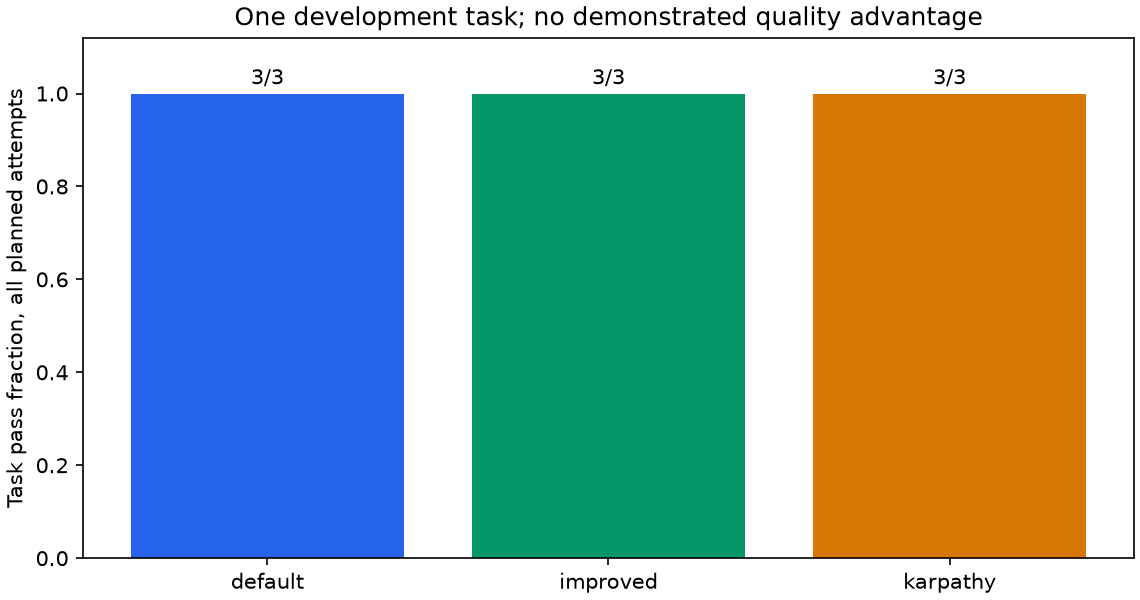
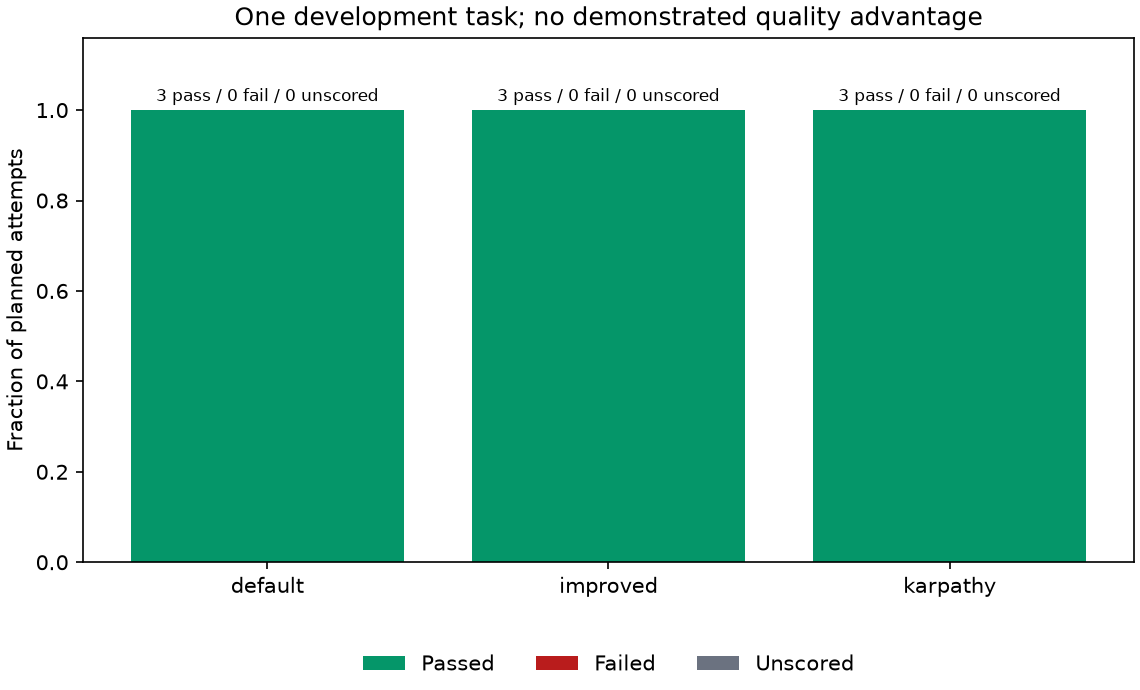
Distinguish unscored trials and verify published charts

diff --git a/tools/summarize_agent_trials.py b/tools/summarize_agent_trials.py
@@ -7,6 +7,7 @@ import argparse
 import hashlib
 import json
 import statistics
+import tempfile
 import zipfile
 from collections import Counter
 from pathlib import Path, PurePosixPath
@@ -454,17 +455,36 @@ def plots(report: dict[str, Any], output: Path) -> None:
     plt.rcParams.update({"svg.hashsalt": report["protocol_sha256"], "svg.fonttype": "none", "font.size": 10})
     conditions = sorted(report["conditions"])
     colors = ["#2563eb", "#059669", "#d97706"]
-    figure, axis = plt.subplots(figsize=(7.6, 4.0), layout="constrained")
+    figure, axis = plt.subplots(figsize=(7.6, 4.6), layout="constrained")
     values = [report["conditions"][condition] for condition in conditions]
-    rates = [value["task_passes"] / value["planned_attempts"] for value in values]
-    axis.bar(conditions, rates, color=colors[: len(conditions)])
-    for index, value in enumerate(values):
-        axis.text(index, rates[index] + 0.02, f"{value['task_passes']}/{value['planned_attempts']}", ha="center")
+    passed = [value["status_counts"].get("task_passed", 0) for value in values]
+    failed = [value["status_counts"].get("task_failed", 0) for value in values]
+    unscored = [
+        sum(count for status, count in value["status_counts"].items() if status not in {"task_passed", "task_failed"})
+        for value in values
+    ]
+    planned = [value["planned_attempts"] for value in values]
+    passed_fraction = [count / total for count, total in zip(passed, planned, strict=True)]
+    failed_fraction = [count / total for count, total in zip(failed, planned, strict=True)]
+    unscored_fraction = [count / total for count, total in zip(unscored, planned, strict=True)]
+    axis.bar(conditions, passed_fraction, label="Passed", color="#059669")
+    axis.bar(conditions, failed_fraction, bottom=passed_fraction, label="Failed", color="#b91c1c")
+    bottom = [left + right for left, right in zip(passed_fraction, failed_fraction, strict=True)]
+    axis.bar(conditions, unscored_fraction, bottom=bottom, label="Unscored", color="#6b7280")
+    for index, (passed_count, failed_count, unscored_count) in enumerate(zip(passed, failed, unscored, strict=True)):
+        axis.text(
+            index,
+            1.02,
+            f"{passed_count} pass / {failed_count} fail / {unscored_count} unscored",
+            ha="center",
+            fontsize=8,
+        )
     axis.set(
-        ylim=(0, 1.12),
-        ylabel="Task pass fraction, all planned attempts",
+        ylim=(0, 1.16),
+        ylabel="Fraction of planned attempts",
         title="One development task; no demonstrated quality advantage",
     )
+    axis.legend(loc="upper center", bbox_to_anchor=(0.5, -0.14), ncol=3, frameon=False)
     figure.savefig(output / "quality.svg", metadata={"Date": None, "Creator": "summarize_agent_trials.py"})
     figure.savefig(output / "quality.png", dpi=150, metadata={"Software": "summarize_agent_trials.py"})
     plt.close(figure)
@@ -492,6 +512,27 @@ def plots(report: dict[str, Any], output: Path) -> None:
     plt.close(figure)
 
 
+def verify_plots(report: dict[str, Any], output: Path) -> None:
+    """Compare rendered SVG content and PNG pixels without changing published files."""
+    from PIL import Image
+
+    with tempfile.TemporaryDirectory() as directory:
+        rendered = Path(directory)
+        plots(report, rendered)
+        for name in ("quality.svg", "tokens.svg"):
+            expected_svg = (rendered / name).read_bytes().replace(b"\r\n", b"\n")
+            actual_svg = (output / name).read_bytes().replace(b"\r\n", b"\n")
+            if actual_svg != expected_svg:
+                raise ValueError(f"published {name} differs from the verified trial report")
+        for name in ("quality.png", "tokens.png"):
+            with Image.open(rendered / name) as expected_image, Image.open(output / name) as actual_image:
+                if (
+                    expected_image.size != actual_image.size
+                    or expected_image.convert("RGBA").tobytes() != actual_image.convert("RGBA").tobytes()
+                ):
+                    raise ValueError(f"published {name} pixels differ from the verified trial report")
+
+
 def build_parser() -> argparse.ArgumentParser:
     parser = argparse.ArgumentParser(description=__doc__)
     parser.add_argument("--protocol", type=Path, required=True)
@@ -502,6 +543,9 @@ def build_parser() -> argparse.ArgumentParser:
     )
     parser.add_argument(
         "--plots", action="store_true", help="Generate standalone SVG charts; requires the reports extra"
+    )
+    parser.add_argument(
+        "--check-plots", action="store_true", help="With --check, verify published charts; requires the reports extra"
     )
     parser.add_argument("--json", action="store_true")
     parser.add_argument(
@@ -517,12 +561,16 @@ def main(argv: list[str] | None = None) -> int:
     try:
         if args.check and (args.plots or args.package_bytecode):
             raise ValueError("--check does not write charts or bytecode transports")
+        if args.check_plots and not args.check:
+            raise ValueError("--check-plots requires --check")
         report = summarize(args.protocol, args.trials, package_caches=args.package_bytecode)
         if args.check:
             if (args.output_dir / "summary.json").read_text(encoding="utf-8") != dumps_deterministic(report) or (
                 args.output_dir / "README.md"
             ).read_text(encoding="utf-8") != render(report):
                 raise ValueError("published trial report differs from verified recorded attempts")
+            if args.check_plots:
+                verify_plots(report, args.output_dir)
         else:
             args.output_dir.mkdir(parents=True, exist_ok=True)
             write_json(args.output_dir / "summary.json", report)

diff --git a/tests/test_render_agent_quality_chart.py b/tests/test_render_agent_quality_chart.py
@@ -1,0 +1,74 @@
+"""Keep unscored attempts distinct from failures in the single-task chart."""
+
+from __future__ import annotations
+
+import importlib.util
+import tempfile
+import unittest
+import xml.etree.ElementTree as ET
+from pathlib import Path
+from typing import Any
+
+import summarize_agent_trials as target
+
+
+@unittest.skipUnless(importlib.util.find_spec("matplotlib"), "the optional reports dependencies are not installed")
+class AgentQualityChartTests(unittest.TestCase):
+    @staticmethod
+    def report() -> dict[str, Any]:
+        return {
+            "protocol_sha256": "a" * 64,
+            "conditions": {
+                "default": {
+                    "planned_attempts": 4,
+                    "task_passes": 1,
+                    "status_counts": {"task_passed": 1, "harness_error": 1, "invalid_scope": 1, "timed_out": 1},
+                },
+                "improved": {
+                    "planned_attempts": 4,
+                    "task_passes": 1,
+                    "status_counts": {"task_passed": 1, "task_failed": 3},
+                },
+            },
+            "attempts": [],
+        }
+
+    def test_unscored_and_failed_attempts_are_visibly_distinct(self) -> None:
+        with tempfile.TemporaryDirectory() as directory:
+            output = Path(directory)
+            target.plots(self.report(), output)
+            root = ET.parse(output / "quality.svg").getroot()
+        text = [element.text for element in root.iter() if element.tag.endswith("}text")]
+        self.assertIn("Passed", text)
+        self.assertIn("Failed", text)
+        self.assertIn("Unscored", text)
+        self.assertIn("1 pass / 0 fail / 3 unscored", text)
+        self.assertIn("1 pass / 3 fail / 0 unscored", text)
+
+    def test_plot_freshness_rejects_changed_svg_and_pixels(self) -> None:
+        from PIL import Image
+
+        with tempfile.TemporaryDirectory() as directory:
+            output = Path(directory)
+            report = self.report()
+            target.plots(report, output)
+            target.verify_plots(report, output)
+            svg = output / "quality.svg"
+            original = svg.read_bytes()
+            svg.write_bytes(original.replace(b"\r\n", b"\n").replace(b"\n", b"\r\n"))
+            target.verify_plots(report, output)
+            svg.write_bytes(original.replace(b"Unscored", b"Changed"))
+            with self.assertRaisesRegex(ValueError, "quality.svg"):
+                target.verify_plots(report, output)
+            svg.write_bytes(original)
+            png = output / "quality.png"
+            with Image.open(png) as source:
+                changed = source.convert("RGBA")
+            changed.putpixel((0, 0), (0, 0, 0, 0))
+            changed.save(png)
+            with self.assertRaisesRegex(ValueError, "quality.png"):
+                target.verify_plots(report, output)
+
+
+if __name__ == "__main__":
+    unittest.main()

diff --git a/docs/agent-trial-protocol.md b/docs/agent-trial-protocol.md
@@ -83,8 +83,17 @@ agree with their recorded evidence. The 17-case v2 manifest was reconstructed
 after the trials from a Git blob matching the frozen grader hash; it was not
 precommitted before those trials. It prevents consistent omission of a recorded
 case during report generation, but does not prove that the grader ran or that
-the observations are authentic. Future experiments must establish their case
-manifest before execution and retain independent grading evidence.
+the observations are authentic. The quality chart separates passed, failed and
+unscored attempts. With the optional reports dependencies installed, verify the
+published SVG content and PNG pixels against freshly rendered charts from the
+repository root:
+
+```bash
+python tools/summarize_agent_trials.py --protocol benchmarks/agent-effectiveness/development/protocol-v2.json --trials artifacts/agent-trials/development-v2 --output-dir artifacts/agent-trials/development-v2-report --check --check-plots
+```
+
+Future experiments must establish their case manifest before execution and
+retain independent grading evidence.
 For protocol version 3 or later, `grading_cases_sha256` commits the case set:
 sort the unique names, serialize them as compact ASCII JSON, and hash the UTF-8
 bytes with SHA-256. The adjacent `<protocol-stem>.grading.json` records that
